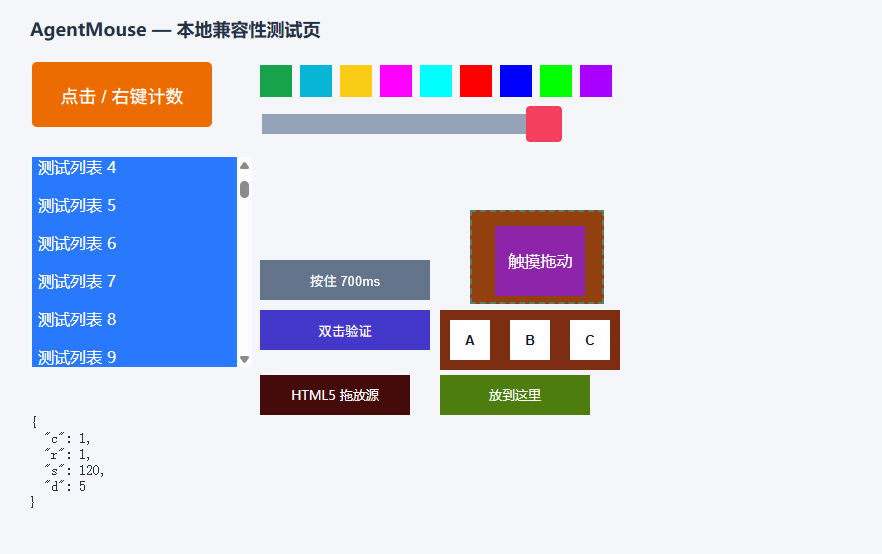
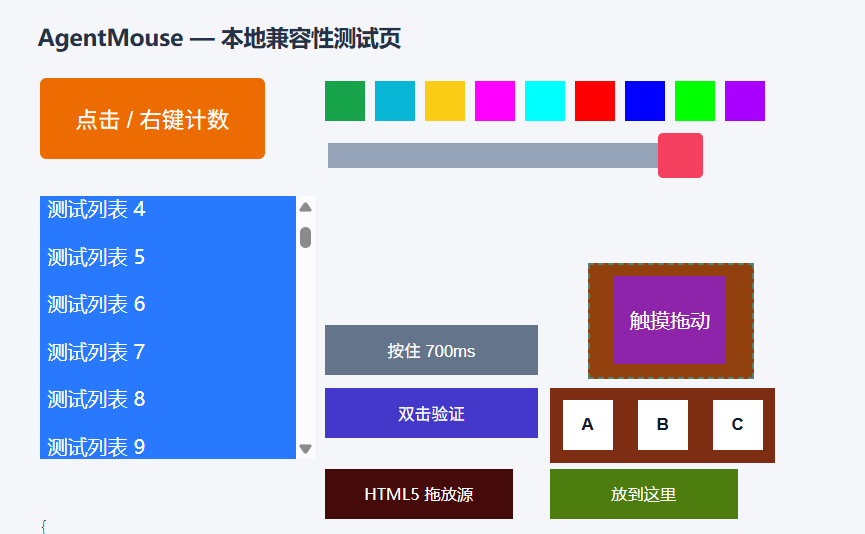
Fix occluded browser capture and verify foreground-preserving desktop gestures

diff --git a/browser-extension/background.js b/browser-extension/background.js
@@ -1,7 +1,7 @@
 import { BASE_URL, TOKEN } from './config.js';
 
 const attached = new Set(), held = new Map();
-const allowed = new Set(['Page.getLayoutMetrics', 'Page.captureScreenshot', 'Input.dispatchMouseEvent', 'Input.setInterceptDrags', 'Input.dispatchDragEvent', 'Input.cancelDragging']);
+const allowed = new Set(['Emulation.setFocusEmulationEnabled', 'Page.getLayoutMetrics', 'Page.captureScreenshot', 'Input.dispatchMouseEvent', 'Input.setInterceptDrags', 'Input.dispatchDragEvent', 'Input.cancelDragging']);
 let connected = false, lastError = '', stopped = false, clientId;
 const delay = ms => new Promise(done => setTimeout(done, ms));
 async function http(path, body) {

diff --git a/Core.cs b/Core.cs
@@ -150,7 +150,7 @@ internal sealed class Engine {
     internal object Status(){
         Native.Point real;bool available=Native.GetCursorPos(out real);Native.Rect bounds;object shown=null;
         if(OverlayWindow!=IntPtr.Zero&&Native.GetWindowRect(OverlayWindow,out bounds))shown=new{x=bounds.Left,y=bounds.Top,width=bounds.Width,height=bounds.Height};
-        return new{controllerVersion="0.6.0-beta.1",backgroundWindowCapture=true,windowMessageGestures=true,foregroundWindowId=Native.GetForegroundWindow().ToInt64().ToString(),windowZOrder=CaptureWindows().ConvertAll<string>(w=>w.Handle.ToInt64().ToString()),humanInputSequence=Human.Sequence,backgroundButtonHeld=MessageButtonHeld,armed=Armed,mode=Mode,scope="desktop",pointer=new{x=X,y=Y,visible=ShowPointer},
+        return new{controllerVersion="0.6.0-beta.2",backgroundWindowCapture=true,windowMessageGestures=true,foregroundWindowId=Native.GetForegroundWindow().ToInt64().ToString(),windowZOrder=CaptureWindows().ConvertAll<string>(w=>w.Handle.ToInt64().ToString()),humanInputSequence=Human.Sequence,backgroundButtonHeld=MessageButtonHeld,armed=Armed,mode=Mode,scope="desktop",pointer=new{x=X,y=Y,visible=ShowPointer},
         systemPointer=new{x=real.X,y=real.Y,available=available},overlayBounds=shown,message=Message,pauseShortcut=PauseShortcut,
         limitations=new[]{"后台消息点击和拖动的兼容性取决于目标程序；触摸可能影响真实指针和焦点。","不支持独立键盘、跨窗口系统拖放和独立悬停；后台滚轮需改用滚动条点击。","当前同一时刻仅支持一个 Agent 控制会话。","没有 SendInput 或真实鼠标瞬移兜底。"}};}
     internal object Dispatch(Dictionary<string,object> request){

diff --git a/docs/compatibility.md b/docs/compatibility.md
@@ -10,9 +10,11 @@ AgentMouse has two input routes. Native Windows capture/messages provide desktop
 | Declared MCP connectivity | Official SDK reads cached plugin manifests, lists nine tools, calls real native status | Separate from an actual model choosing a tool |
 | Windows background capture | Real Chrome HWND pixels captured using Windows.Graphics.Capture while covered | Apps can stop repainting; no desktop-crop fallback |
 | Native inactive Chrome input | Further testing reproduced activation/raising by Chrome | Now blocked; use Browser Bridge |
-| Real browser extension | Chrome for Testing 157.0.8103.38, actual unpacked extension → authenticated bridge → MCP | Headless component acceptance, not desktop non-interference |
-| Foreground user window remains in front during full browser workflow | Pending: interactive desktop later returned foreground HWND 0 and unavailable pointer data | No full desktop pass claimed |
+| Real browser extension | Chrome for Testing 157.0.8103.38, actual unpacked extension → authenticated bridge → MCP | Passed headless components and the separate covered-window desktop workflow |
+| Foreground user window remains in front during full browser workflow | 2026-11-04: all ten checks passed with Chrome fully covered by ZCode; no focus, relative z-order or unattributed cursor movement detected | One Windows environment and local fixture; [machine-readable result](test-results/desktop-2026-11-04.json) |
 | Third-party CAPTCHA acceptance | Not tested | Local widget tests do not prove server risk checks accept automation |
+
+Both locally installed Codex/ZCode plugins were upgraded to beta.2 and passed cached-manifest/MCP status checks. ZCode's first upgrade failed with `EPERM` while renaming its staged cache; rerunning the installer completed its managed reinstall without errors. This intermittent native-client installation failure is not counted as a successful first attempt. Packaged native installation and repeat-install checks also passed in separate temporary homes.
 
 ## Real extension/component checks
 
@@ -31,7 +33,11 @@ Passed component cases:
 - HTML5 drag/drop with intercepted drag data, keeping it out of the OS drag loop.
 - Mid-drag pause followed by page pointer-up and confirmed released state.
 
-Assertions check the fixture state **and expected pixels in a newly captured image**. Screenshot sampling time is not a native DWM frame timestamp. The demo [browser-verification.png](images/browser-verification.png) is an unmodified capture of the account-free fixture, from the headless extension test.
+Assertions check the fixture state **and expected pixels in a newly captured image**. Screenshot sampling time is not a native DWM frame timestamp. The demo [browser-verification.png](images/browser-verification.png) is an unmodified capture of the account-free fixture, from the covered-window desktop test.
+
+The first restored-desktop attempt timed out at `Page.captureScreenshot` while the page was occluded. Browser observations now enable `Emulation.setFocusEmulationEnabled`, keeping the page rendering without activating its Windows window. Detaching the debugger clears that override; the page can receive simulated focus/visibility events while attached. The passing desktop test retained GPU acceleration and normal occlusion settings. Its sole launch adjustment was `--force-color-profile=srgb`, to make fixture RGB receipts independent of the monitor profile; production does not require this flag. See [Chromium's implementation](https://raw.githubusercontent.com/chromium/chromium/main/content/browser/devtools/protocol/emulation_handler.cc).
+
+The desktop run also exposed sparse drag samples caused by slower native permission checks. Drag interpolation now preserves each explicit corner and at least twenty movement samples, even when delivery is slow. Requested duration is a minimum schedule, not a wall-clock upper bound. A regression check simulates slow permission checks and verifies corner delivery.
 
 These checks validate mouse execution primitives. They do not solve CAPTCHA images, defeat bot detection, validate a third-party account flow or guarantee every real site accepts the gesture. Site verification may require a person.
 
@@ -78,6 +84,6 @@ node scripts/test-background-chrome.mjs --headless-test --extension-bridge-test
 
 Chrome for Testing is used because normal branded Chrome removed the command-line extension loader. This is Google's supported development/test distribution, not an attempt to bypass an administrator block. Production users load the generated extension themselves. [Official notice](https://groups.google.com/a/chromium.org/g/chromium-extensions/c/1-g8EFx2BBY/m/my-groups).
 
-Once the interactive desktop is restored, omit `--headless-test` to check the fixture fully behind an existing foreground window. The harness lowers only its owned fixture, checks foreground/z-order, and aborts on interference. `--native-messages` is a diagnostic for the rejected native Chrome route and is expected to fail, not an acceptance pass.
+Omit `--headless-test` to reproduce the covered-window desktop acceptance with an existing foreground window. The harness lowers only its owned fixture, checks foreground/z-order, and aborts on interference. `--native-messages` is a diagnostic for the rejected native Chrome route and is expected to fail, not an acceptance pass.
 
 Build/check ZIPs with `scripts/build-release.ps1` and `scripts/test-release.ps1`; `-NativeClients` additionally checks native Codex/ZCode installation in isolated homes. Raw reports, browser profiles and personal captures are excluded from Git. Historical 0.3/0.4 checks of selected Chrome/Edge/Notepad/Word actions are not treated as current universal guarantees; audio playback was never verified.

diff --git a/docs/release-notes.md b/docs/release-notes.md
@@ -1,13 +1,16 @@
-AgentMouse 0.6.0-beta.1 — real background images and browser mouse gestures.
+AgentMouse 0.6.0-beta.2 — verified covered-window browser operation.
 
 - Browser Bridge uses your existing Chrome/profile, actual rendered images and coordinate input through `chrome.debugger`. No DOM selectors, injected clicks, remote debugging port or disabled GPU is needed in normal use.
-- Supports click/right-click, wheel, double-click, long press, slider/puzzle paths, HTML5 drop and cancellation/release. Real extension integration passes on local fixtures in headless Chrome for Testing 157.
+- All ten local desktop checks pass with Chrome fully covered by foreground ZCode: fresh page images, click/right-click, wheel, double-click, long press, slider/puzzle paths, ordered points, HTML5 drop and cancellation/release. No foreground, relative z-order or unattributed system-pointer interference was detected.
+- Fixes occluded screenshot timeouts by keeping the attached page rendering, and preserves drag corners/samples when native permission checks are slow. GPU acceleration stays enabled.
 - Windows Graphics Capture reads covered native window surfaces. Native Chromium mouse input is blocked when inactive because it can activate/raise the window.
 - Agent installers prepare a paired extension directory. You load it manually once and review Chrome permissions; no policy bypass or profile change.
 - Preserves native Codex/ZCode plugin installation and other MCP + skills adapters, with backups and isolated installation tests.
 
-**Beta limit:** the interactive desktop became unavailable, so final acceptance with the user's foreground window has not been completed. Headless fixture success is not a desktop pass or a promise that real CAPTCHA risk checks accept automation. Test results and failed native approaches are documented.
+**Beta limit:** desktop acceptance covers one Windows environment and a local fixture in Chrome for Testing 157, with sRGB forced only for fixture color checks. It is not a promise that all apps or real CAPTCHA risk checks accept automation. Simulated page focus/visibility can change page behavior; Windows focus remains separate. Test results and failed native approaches are documented.
+
+When upgrading from beta.1, restart Windows if its older browser service is still running, then reload the generated extension. Version checks reject an older running service instead of silently using it.
 
 Extract the ZIP, double-click `install.cmd`, select agents, then load the printed generated Chrome extension directory. Refresh/restart agent clients, open AgentMouse and enable input once before actions. Requires Windows x64 and Node 18+; native HWND capture requires Windows 10 1903+.
 
-中文：新版加入真实后台画面与浏览器鼠标通道。真实扩展链路已通过本地滑块、拼图式路径拖动、顺序点选、长按、双击、HTML5 拖放和中断释放测试。仍需用户加载扩展一次；不修改原 Chrome 资料或绕过策略。桌面恢复后的前台保持验收尚未完成，不能把组件通过宣传为所有真实验证码必过。
+中文：本版已补齐真实桌面验收：Chrome 完全被前台 ZCode 遮挡时，10 项本地操作及新画面检查全部通过，未检测到抢前台或带动真实鼠标。修复遮挡时截图超时、慢速状态检查跳过拖动转折点的问题。仍需用户加载扩展一次；不能宣传为所有软件或真实验证码必过。beta.1 的旧服务若仍在运行，重启 Windows 后重新加载生成的扩展。

diff --git a/README.md b/README.md
@@ -8,7 +8,7 @@ Keep working while your agent observes and operates another app. AgentMouse comb
 
 For web tasks, **Browser Bridge** reads real tab images and sends coordinate-based mouse input through Chrome's debugger API. It uses your existing browser/profile and does not rely on DOM selectors, injected clicks or per-site scripts. Native Windows capture/messages remain available for desktop apps.
 
-**Beta:** real browser-extension gesture integration passes in headless Chrome for Testing. Final acceptance with a foreground user window is still pending because the interactive desktop became unavailable. This is not a universal app-compatibility or CAPTCHA-solving guarantee.
+**Beta:** all ten local browser workflow checks pass with Chrome fully covered by the foreground ZCode window, including fresh background images, slider/puzzle gestures, ordered clicks and cancellation. The test detected no foreground, z-order or unattributed system-pointer interference. This is not a universal app-compatibility or CAPTCHA-solving guarantee. [Desktop evidence](docs/test-results/desktop-2026-11-04.json).
 
 ## Install
 
@@ -90,7 +90,7 @@ Desktop non-interference, actual-client native loading and component tests are s
 
 ## Configuration and removal
 
-Runtime: `%LOCALAPPDATA%\AgentMouse\0.6.0-beta.1` (physical path resolved for packaged Windows hosts). Browser pairing: `~/.agentmouse/browser`, with a per-user local token and authenticated loopback-only service. Generated secrets/private profiles stay outside the repo. Existing settings are retained with backups under the runtime's `backups/`.
+Runtime: `%LOCALAPPDATA%\AgentMouse\0.6.0-beta.2` (physical path resolved for packaged Windows hosts). Browser pairing: `~/.agentmouse/browser`, with a per-user local token and authenticated loopback-only service. Generated secrets/private profiles stay outside the repo. Existing settings are retained with backups under the runtime's `backups/`.
 
 MCP-only paths: Claude `~/.claude.json`, Codex `~/.codex/config.toml`, ZCode `~/.zcode/cli/config.json`, WorkBuddy `~/.workbuddy/mcp.json`, DSH `~/.dsh/profiles/<profile>/cordis.patch.yml`. Codex native upgrades relocate only AgentMouse's own marketplace when the versioned source changes. Native installer failures report possible partial completion; MCP-only settings writes support rollback.
 
